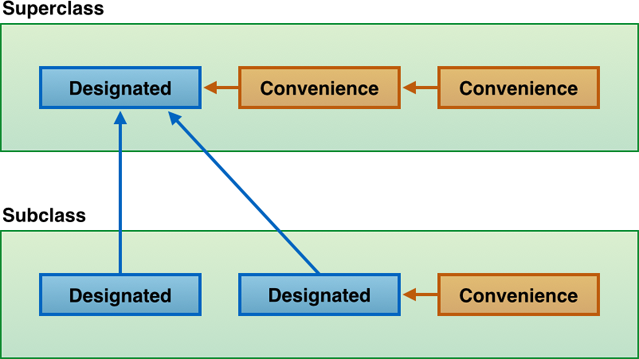
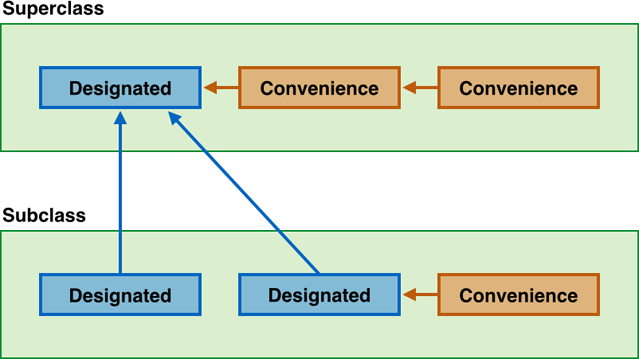
After several hours of fine-tuning, I finally have an Initialization example that I think tells the story in a simple enough fashion. I still need to write an explanation of the story, but here's the class hierarchy and sample code to start things off.

diff --git a/LanguageGuide/Initialization.rst b/LanguageGuide/Initialization.rst
@@ -609,6 +609,63 @@ and will create an instance of the subclass type (rather than the original type)
 when they are automatically inherited.
 ``Self`` is described in more detail :ref:`Inheritance_DynamicReturnTypes`.
 
+The following example shows designated initializers, convenience initializers,
+and automatic initializer inheritance in action.
+This example will define three new classes called
+``Food``, ``RecipeIngredient``, and ``ShoppingListItem``.
+Their class and initializer hierarchy is shown in the following diagram:
+
+.. image:: ../images/initializerDelegation03.png
+   :align: center
+
+The ``Food`` class defines a single ``String`` property called ``name``:
+
+.. testcode:: designatedConvenience
+
+   -> class Food {
+         var name: String
+         init(name: String) {
+            self.name = name
+         }
+         init() -> Self {
+            self.init(name: "[Unnamed]")
+         }
+      }
+
+The ``RecipeIngredient`` class is a subclass of ``Food`` that adds
+an ``Int`` property called ``quantity``:
+
+.. testcode:: designatedConvenience
+
+   -> class RecipeIngredient : Food {
+         var quantity: Int
+         init(name: String, quantity: Int) {
+            self.quantity = quantity
+            super.init(name: name)
+         }
+         init(name: String) -> Self {
+            self.init(name: name, quantity: 1)
+         }
+      }
+
+The ``ShoppingListItem`` class is a subclass of ``RecipeIngredient`` that adds
+a ``Bool`` property called ``purchased``, with a default value of ``false``.
+It also adds a computed ``String`` property called ``description``:
+
+.. testcode:: designatedConvenience
+
+   -> class ShoppingListItem : RecipeIngredient {
+         var purchased = false
+         var description: String {
+            var output = "\(quantity) x \(name.lowercase)"
+            output += purchased ? " ✔" : " ✘"
+            return output
+         }
+      }
+
+.. QUESTION: Should description be a property or a method?
+   I think I've used a method elsewhere in the book for a similar scenario.
+
 .. _Initialization_Deinitializers:
 
 Deinitializers
